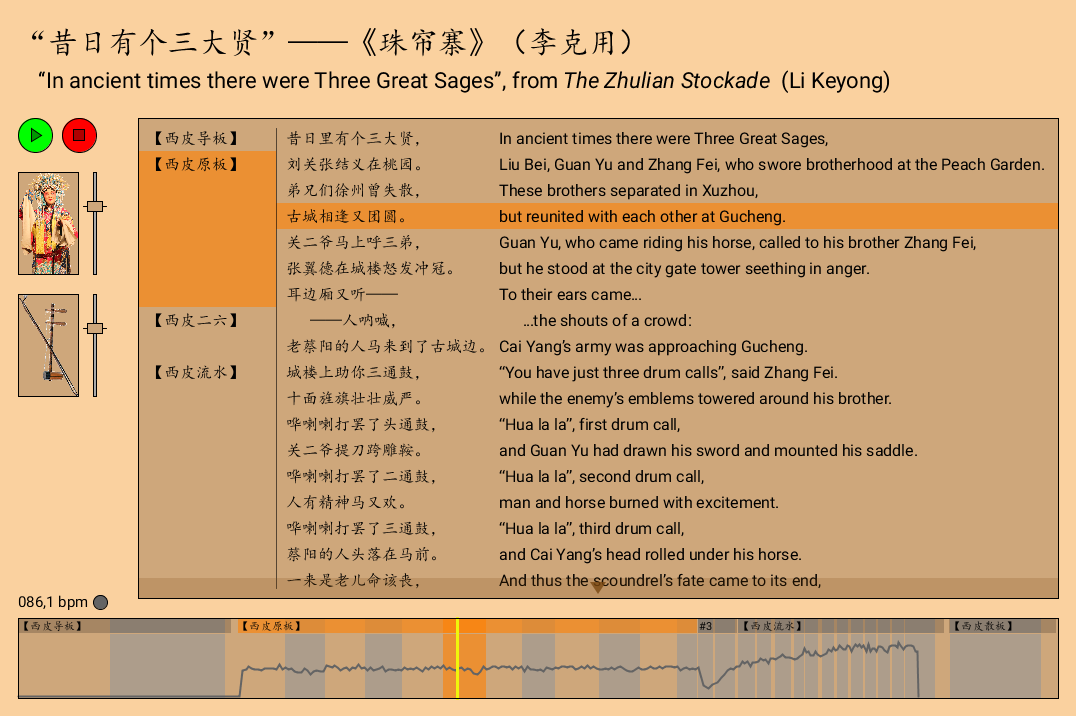
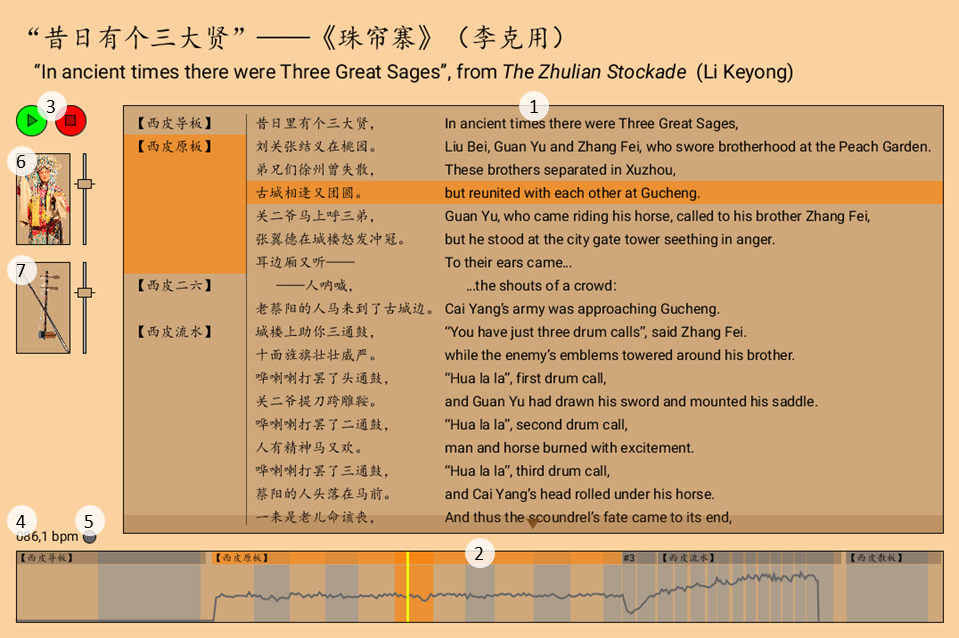
Update screenshot

diff --git a/README.md b/README.md
@@ -8,14 +8,14 @@ Understanding the elements of jingju music is an important requirement for its a
 
 This preliminary version of the Jingju Player demonstrates its functionalities with the aria “昔日有个三大贤”——《珠帘寨》（李克用）"In ancient times where Three Great Sages," from _The Zhulian Stockade_ (Li Keyong).
 
-The **lyrics window** (1) offers, in the second column, the lyrics of the aria both in its original Chinese and in its English translation. The first column shows a label with _shengqiang_ and _banshi_. The line in parallel to this label and the following ones are sung in the _shengqiang_ and _banshi_ indicated by that label. To see the lyrics that do not fit in the lyrics window, the scroll down button (2) can be clicked.
+The **lyrics window** (1) offers, in the second column, the lyrics of the aria both in its original Chinese and in its English translation. The first column shows a label with _shengqiang_ and _banshi_. The line in parallel to this label and the following ones are sung in the _shengqiang_ and _banshi_ indicated by that label. To see the lyrics that do not fit in the lyrics window, the scroll down button at the bottom of the lyrics window can be clicked.
 
-The **navigation window** (3) shows a general structure of the aria. The shadowed areas correspond to each of the lyrics lines and their width correspond to the required time for singing them. The _shengqiang banshi_ labels are also added on the top of the window (4). The superimposed gray line (5) is a tempo curve, that indicates the evolution of the tempo throughout the aria. When a free metred _banshi_ is used, the line shows no value.
+The **navigation window** (2) shows a general structure of the aria. The shadowed areas correspond to each of the lyrics lines and their width correspond to the required time for singing them. The _shengqiang banshi_ labels are also added on the top of the window. The superimposed gray line is a tempo curve, that indicates the evolution of the tempo throughout the aria. When a free metred _banshi_ is used, the line shows no value.
 
-When the aria is played using the playback buttons (6), a cursor in the navigation window shows the current point of the aria being played. Both the current _shengqiang banshi_ label and lyrics line are highlighted in both the lyrics window and the navigation window.
+When the aria is played using the playback buttons (3), a cursor in the navigation window shows the current point of the aria being played. Both the current _shengqiang banshi_ label and lyrics line are highlighted in both the lyrics window and the navigation window.
 
-The **tempo box** (7) shows the exact tempo value in bpm of the current point. If a free metred _banshi_ is being played, the box shows the message "Scattered."
+The **tempo box** (4) shows the exact tempo value in bpm of the current point. If a free metred _banshi_ is being played, the box shows the message "Scattered."
 
-Next to the tempo box, the **metre marker** (8) indicates the metre by blinking red for each downbeat and green for each upbeat. Besides, by deafult a ban clappers sound is played for each downbeat and a danpigu drum sound is played for each upbeat. If the the metre marker is clicked, the ban and danpigu sounds are muted.
+Next to the tempo box, the **metre marker** (5) indicates the metre by blinking red for each downbeat and green for each upbeat. Besides, by deafult a ban clappers sound is played for each downbeat and a danpigu drum sound is played for each upbeat. If the the metre marker is clicked, the ban and danpigu sounds are muted.
 
-The **source buttons** allows for muting either the singing voice (9) or the accompanying jinghu (10). The sliders next to them adjust the volume of each of the sources.
+The **source buttons** allows for muting either the singing voice (6) or the accompanying jinghu (7). The sliders next to them adjust the volume of each of the sources.
